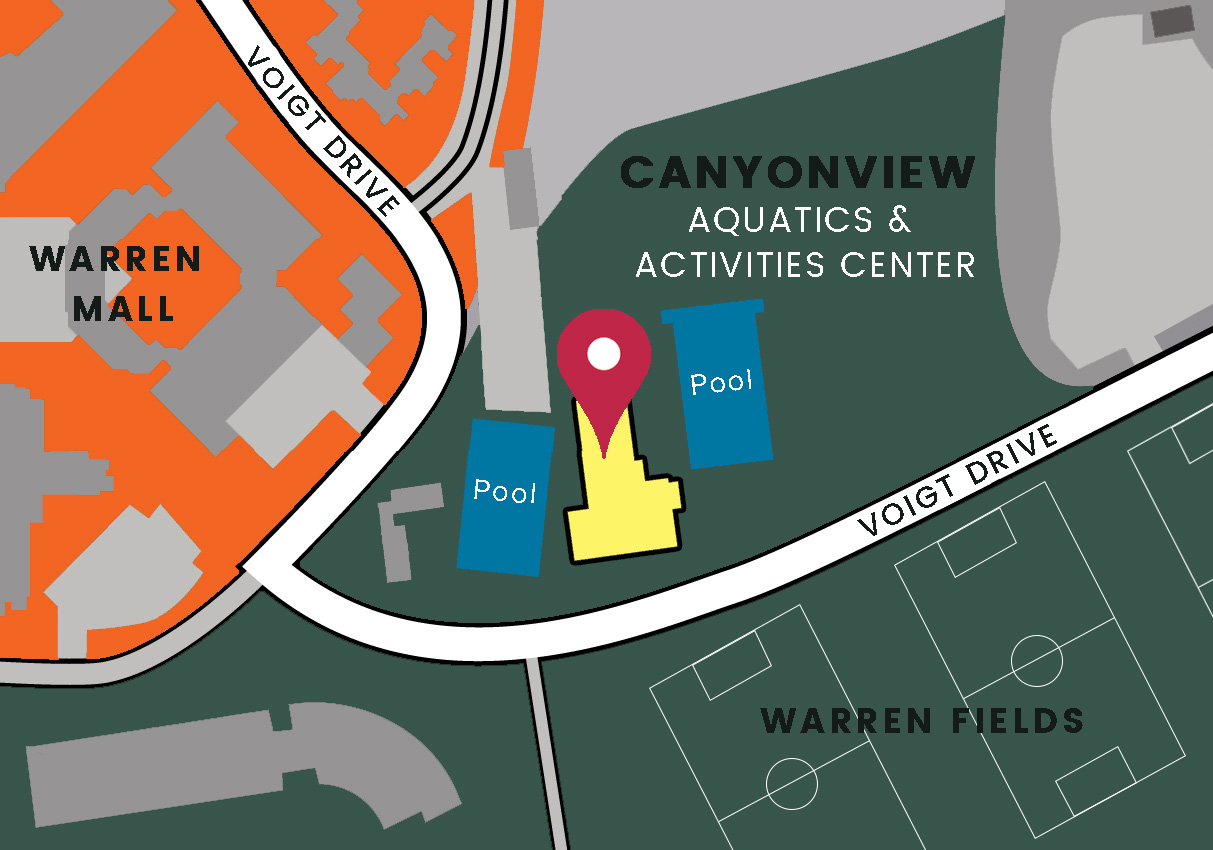
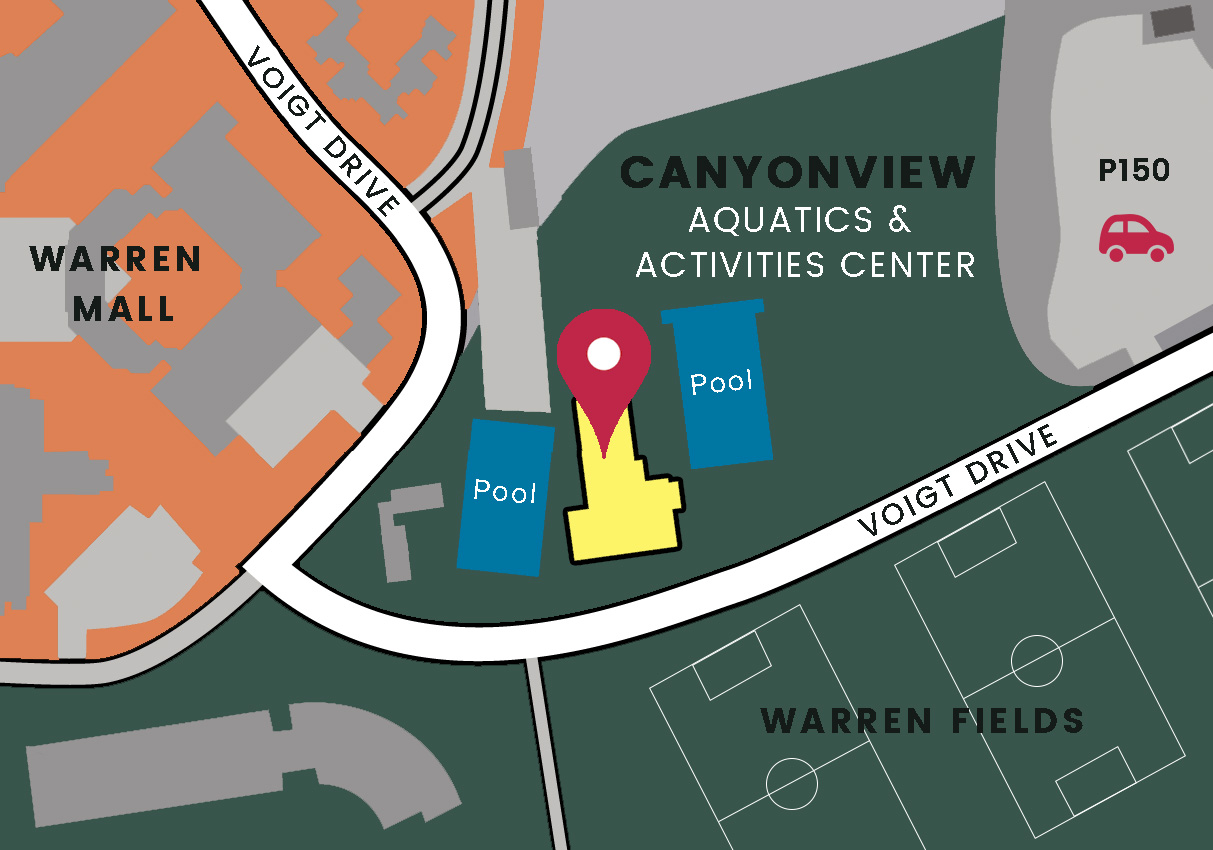
updated map and mountain image files

diff --git a/hours-and-location.html b/hours-and-location.html
@@ -170,7 +170,7 @@
             <h1 class="section-header">Location</h1>
             <p>
               <div class="map-section">
-                <img src="assets/img/map.png">
+                <img src="assets/img/map_v2.jpg">
               </div>
             </p>
           </div>
